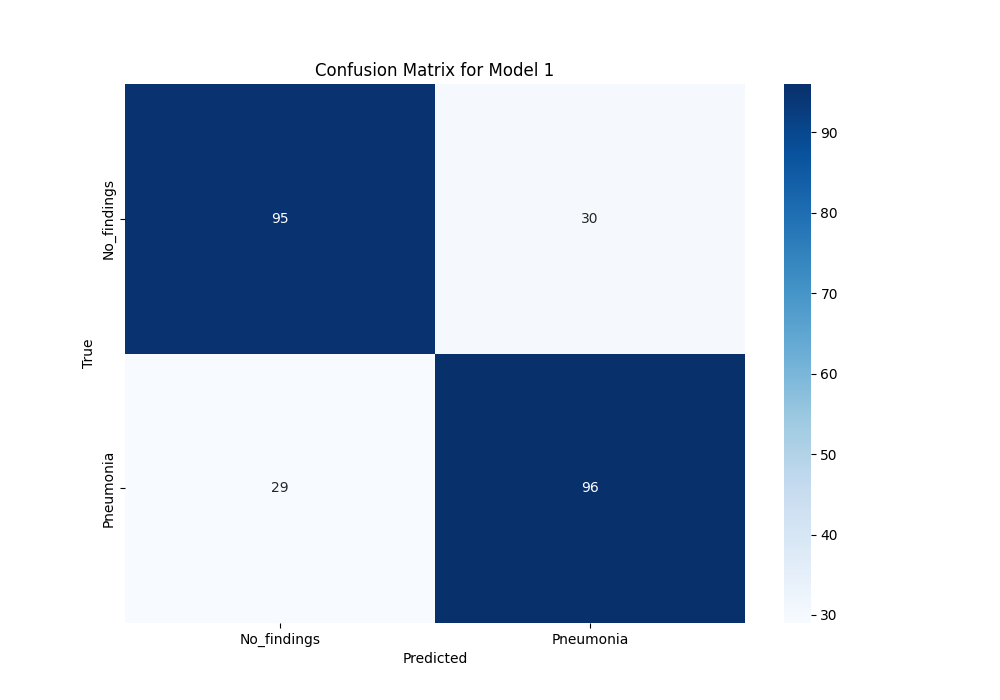
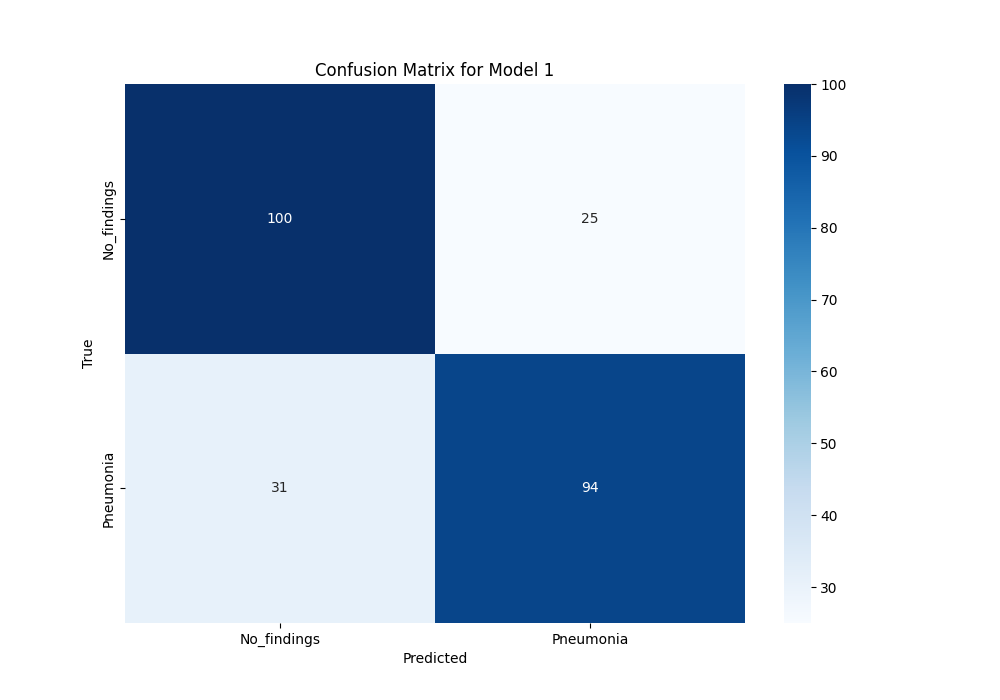
final commit

diff --git a/cnn.py b/cnn.py
@@ -20,7 +20,7 @@ test_dir = os.path.join(base_dir, 'test')
 
 # Data preprocessing and augmentation
 train_datagen = ImageDataGenerator(
-    rescale=1./255,  # Normalization for training data
+    rescale=1./255, 
     shear_range=0.2,
     zoom_range=0.2,
     horizontal_flip=True
@@ -71,36 +71,41 @@ test_dataset = tf.data.Dataset.from_generator(
 )
 
 # Parameters list
-layer_1 = [10, 20, 30]
-layer_2 = [20, 40, 60]
-layer_3 = [40, 80, 120]
-layer_4 = [40, 80, 120]
-layer_5 = [40, 80, 120]
-density = [40, 80, 120]
+layer_1 = [20, 30]
+layer_2 = [40, 60]
+layer_3 = [80, 120]
+layer_4 = [80, 120]
+layer_5 = [80, 120]
+density = [80, 120]
 
-max_models = 3
+# layer_1 = [10, 20, 30]
+# layer_2 = [20, 40, 60]
+# layer_3 = [40, 80, 120]
+# layer_4 = [40, 80, 120]
+# layer_5 = [40, 80, 120]
+# density = [40, 80, 120]
+
+max_models = 1
 
 # Early stopping callback
-early_stopping = EarlyStopping(monitor='val_loss', patience=10, restore_best_weights=True)
+early_stopping = EarlyStopping(monitor='val_loss', patience=20, restore_best_weights=True)
 
-# Loop for trying different models
 for i in range(max_models):
-    # Build model
     model = Sequential([
         Input(shape=(128, 128, 3)),
-        Conv2D(layer_1[i], kernel_size=(3, 3), activation='relu', padding='same'),
+        Conv2D(10, kernel_size=(3, 3), activation='relu', padding='same'),
         MaxPooling2D(pool_size=(2, 2)),
-        Conv2D(layer_2[i], (3, 3), activation='relu', padding='same'),
+        Conv2D(20, (3, 3), activation='relu', padding='same'),
         MaxPooling2D(pool_size=(2, 2)),
-        Conv2D(layer_3[i], (3, 3), activation='relu', padding='same'),
+        Conv2D(40, (3, 3), activation='relu', padding='same'),
         MaxPooling2D(pool_size=(2, 2)),
-        Conv2D(layer_4[i], (3, 3), activation='relu', padding='same'),
+        Conv2D(40, (3, 3), activation='relu', padding='same'),
         MaxPooling2D(pool_size=(2, 2)),
-        Conv2D(layer_5[i], (3, 3), activation='relu', padding='same'),
+        Conv2D(40, (3, 3), activation='relu', padding='same'),
         MaxPooling2D(pool_size=(2, 2)),
         Flatten(),
         Dropout(0.5),
-        Dense(density[i], activation='relu'),
+        Dense(40, activation='relu'),
         Dropout(0.5),
         Dense(1, activation='sigmoid')
     ])
@@ -140,6 +145,17 @@ for i in range(max_models):
     plt.savefig(f'learning_test_loss_curves_{i+1}.png')
     plt.close()
 
+    # Plot learning and test accuracy curves
+    plt.figure(figsize=(10, 5))
+    plt.plot(history.history['accuracy'], label='Training Accuracy')
+    plt.plot(history.history['val_accuracy'], label='Validation Accuracy')
+    plt.title('Learning and Test Accuracy Curves')
+    plt.xlabel('Epochs')
+    plt.ylabel('Accuracy')
+    plt.legend()
+    plt.savefig(f'learning_test_accuracy_curves_{i+1}.png')
+    plt.close()
+
     # Evaluate model on the test set using test_dataset
     test_steps_per_epoch = math.ceil(test_generator.samples / test_generator.batch_size)
     test_results = model.evaluate(test_dataset, steps=test_steps_per_epoch)
@@ -163,6 +179,8 @@ for i in range(max_models):
     plt.title(f'Confusion Matrix for Model {i+1}')
     plt.savefig(f'confusion_matrix_{i+1}.png')
     plt.close()
+    
+    
     
     # Compute classification report
     report = classification_report(true_classes, predicted_classes, target_names=class_labels, zero_division=0, output_dict=True)

diff --git a/cm.py b/cm.py
@@ -1,0 +1,100 @@
+import os
+import tensorflow as tf
+from tensorflow.keras import layers, models
+from tensorflow.keras.layers import Conv2D, MaxPooling2D, Flatten, Dense, Dropout, Input
+import matplotlib.pyplot as plt
+from tensorflow.keras.preprocessing.image import ImageDataGenerator
+import seaborn as sns
+from sklearn.metrics import confusion_matrix, classification_report
+from tensorflow.keras.models import Sequential
+from tensorflow.keras.callbacks import EarlyStopping
+import time
+import numpy as np
+import math
+
+
+# Paths to dataset directories
+base_dir = '/home/koczka/Documents/ANN/processed_images'
+train_dir = os.path.join(base_dir, 'train')
+val_dir = os.path.join(base_dir, 'val')
+test_dir = os.path.join(base_dir, 'test')
+
+# Data preprocessing and augmentation
+train_datagen = ImageDataGenerator(
+    rescale=1./255, 
+    shear_range=0.2,
+    zoom_range=0.2,
+    horizontal_flip=True
+)
+val_datagen = ImageDataGenerator(rescale=1./255)  # Normalization for validation data
+test_datagen = ImageDataGenerator(rescale=1./255)  # Normalization for test data
+
+# Data generators
+train_generator = train_datagen.flow_from_directory(
+    train_dir,
+    target_size=(128, 128),
+    batch_size=10,
+    class_mode='binary'
+)
+
+val_generator = val_datagen.flow_from_directory(
+    val_dir,
+    target_size=(128, 128),
+    batch_size=10,
+    class_mode='binary'
+)
+
+test_generator = test_datagen.flow_from_directory(
+    test_dir,
+    target_size=(128, 128),
+    batch_size=10,
+    class_mode='binary',
+    shuffle=False
+)
+
+# Convert the generators to tf.data.Datasets
+train_dataset = tf.data.Dataset.from_generator(
+    lambda: train_generator,
+    output_types=(tf.float32, tf.float32),
+    output_shapes=([None, 128, 128, 3], [None])
+).repeat()
+
+val_dataset = tf.data.Dataset.from_generator(
+    lambda: val_generator,
+    output_types=(tf.float32, tf.float32),
+    output_shapes=([None, 128, 128, 3], [None])
+).repeat()
+
+test_dataset = tf.data.Dataset.from_generator(
+    lambda: test_generator,
+    output_types=(tf.float32, tf.float32),
+    output_shapes=([None, 128, 128, 3], [None])
+)
+
+model = tf.keras.models.load_model('model_1.keras')
+
+
+
+
+# Evaluate model on the test set using test_dataset
+val_steps_per_epoch = math.ceil(val_generator.samples / val_generator.batch_size)
+val_results = model.evaluate(val_dataset, steps=val_steps_per_epoch)
+print(f"Validation results for model {1}: Loss = {val_results[0]}, Accuracy = {val_results[1]}")
+# Predict on the test set
+predictions = model.predict(val_dataset, steps=val_steps_per_epoch)
+predicted_classes = [1 if pred > 0.5 else 0 for pred in predictions]
+
+true_classes = val_generator.classes
+class_labels = list(val_generator.class_indices.keys())
+
+# Compute confusion matrix
+cm = confusion_matrix(true_classes, predicted_classes)
+
+# Plot confusion matrix
+plt.figure(figsize=(10, 7))
+sns.heatmap(cm, annot=True, fmt='d', cmap='Blues', xticklabels=class_labels, yticklabels=class_labels)
+plt.xlabel('Predicted')
+plt.ylabel('True')
+plt.title('Confusion Matrix for Model 1')
+plt.savefig('confusion_matrix_1_validation.png')
+plt.close()
